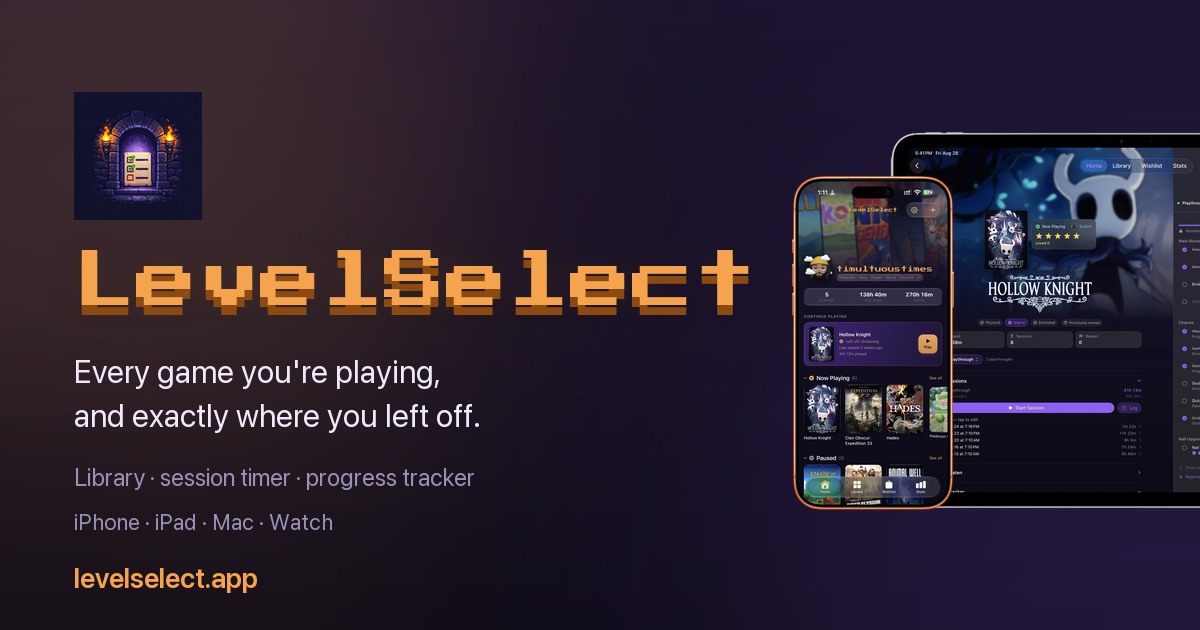
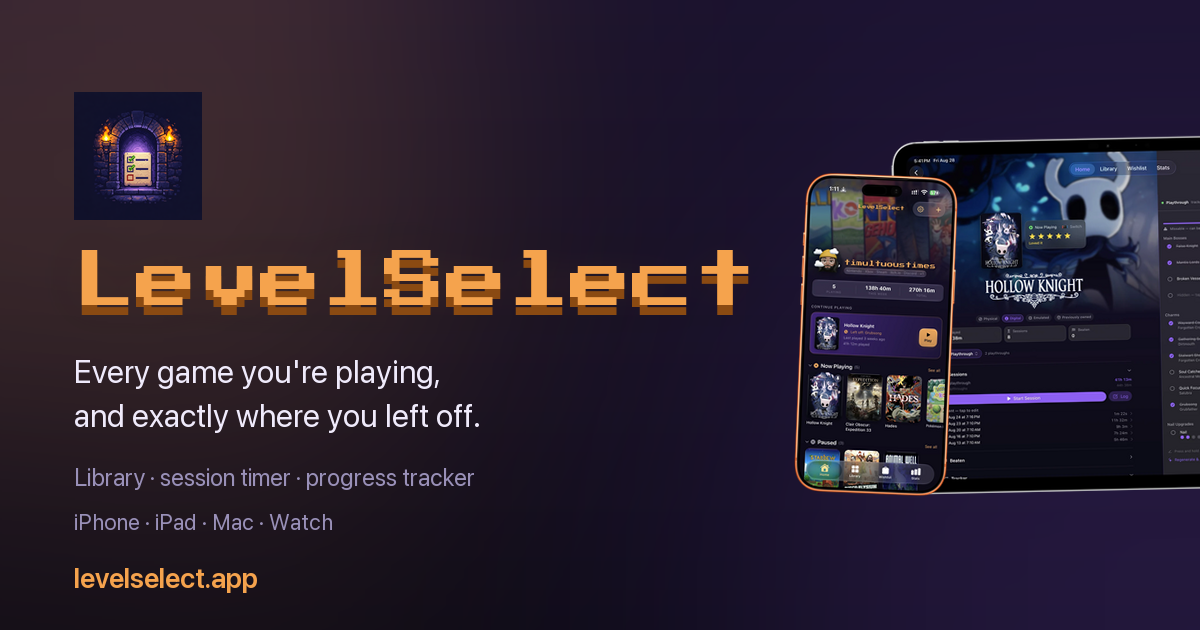
Tilt the pair, and lift it off the baseline
Tim: not bottom aligned, and he likes the iPhone slightly askew.

Both devices now carry the website hero's rotations — iPad +1.2, phone
-2.4 — and the phone sits three percent clear of the bottom rather than
flush to it. Flush read as two devices standing on a shelf; the tilt and
the gap make it an arrangement.

`expand=True` on the rotate matters: it grows the bitmap to fit the rotated
corners, so the overlap and canvas width are measured AFTER rotating. Sized
before, the corners would have been clipped by the very canvas built to
hold them.

The iPad came down to 0.94 of the height and the phone to 0.84 to buy the
room the tilt needs.

Worth saying: the site's hero currently has HALF these rotations, because
Tim's earlier note called it "too big and askew" and I read askew as the
whole problem when the size was. That change is committed but unseen — the
paused Netlify deploys mean he has only ever looked at the old hero. Worth
revisiting the rotation there once he can actually see it.

Changed region(s): [[0.6475, 0.2111, 1.0, 0.8143]]

diff --git a/site/scripts/make-social-images.py b/site/scripts/make-social-images.py
@@ -101,17 +101,23 @@ def devices(pair, height, max_width=None):
     # and the phone is smaller, hanging low-left in front of it. Earlier
     # versions had them near enough the same height with the phone leading,
     # which reads as two devices competing rather than one product seen twice.
-    pad = shot(IPAD_SHOT, height)
-    phone = shot(PHONE_SHOT, round(height * 0.88))
-    overlap = round(phone.width * 0.42)
+    pad = shot(IPAD_SHOT, round(height * 0.94))
+    phone = shot(PHONE_SHOT, round(height * 0.84))
 
+    # A slight tilt, and NOT bottom-aligned. Tim likes the phone askew, and
+    # flush-to-the-baseline read as two devices standing on a shelf rather
+    # than an arrangement. `expand=True` grows the bitmap to fit the rotated
+    # corners, so the widths below are measured after rotating, not before.
+    pad = pad.rotate(1.2, resample=Image.BICUBIC, expand=True)
+    phone = phone.rotate(-2.4, resample=Image.BICUBIC, expand=True)
+
+    overlap = round(phone.width * 0.44)
     canvas = Image.new("RGBA",
                        (phone.width + pad.width - overlap, height), (0, 0, 0, 0))
-    # iPad top-right, phone bottom-left and in front — the offset is vertical,
-    # so the phone hangs below the iPad's bottom edge exactly as it does on the
-    # site rather than sitting level with it.
+    # iPad high, phone low and in front, each clear of the edges so the tilt
+    # has somewhere to live.
     canvas.alpha_composite(pad, (phone.width - overlap, 0))
-    canvas.alpha_composite(phone, (0, height - phone.height))
+    canvas.alpha_composite(phone, (0, height - phone.height - round(height * 0.03)))
 
     if max_width and canvas.width > max_width:
         scale = max_width / canvas.width
